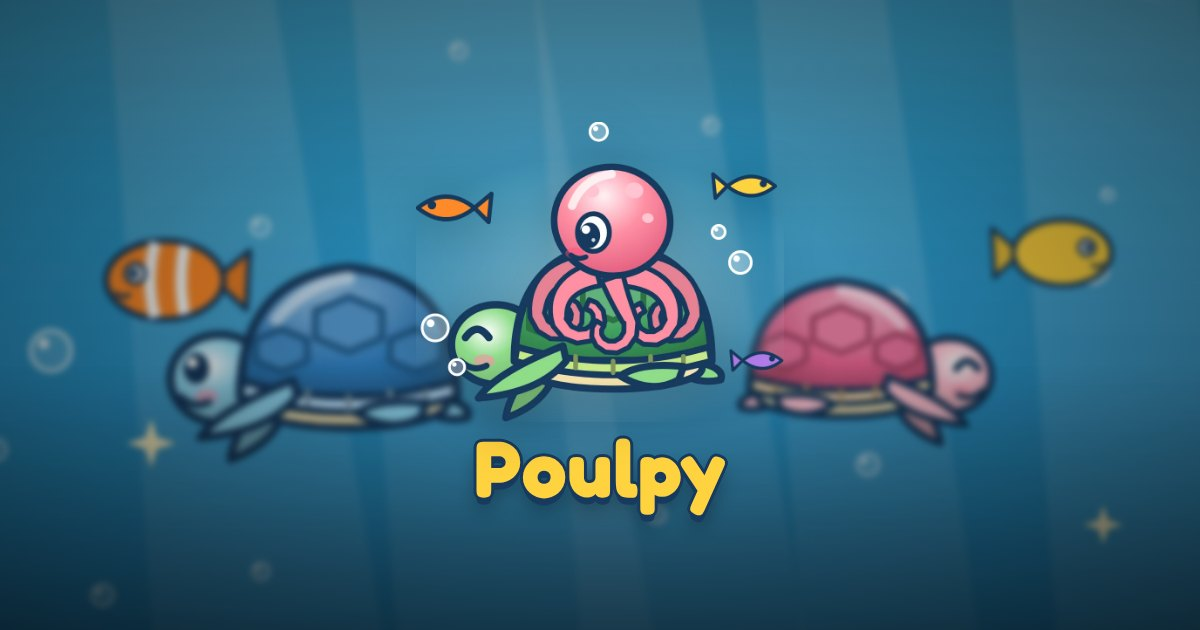
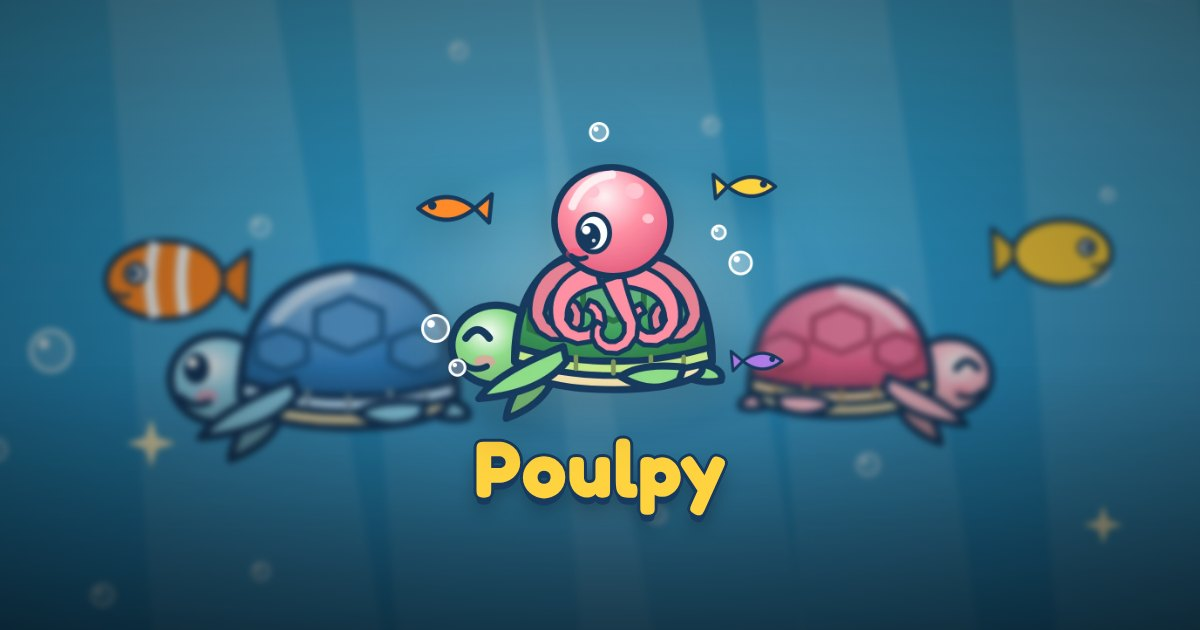
Engine 2026-10-20.1 from the Ludea template; askPlayerName:false (the player is Poulpy); v8
- engine: meta.askPlayerName (game-engine#20), share-preview soft-glow trim fix (#17),
  public-url README check, skills report engine problems directly (#18)
- config: askPlayerName:false, namePromptYou dropped; i18n pruned
- share card redrawn

Claude-Session: https://claude.ai/code/session_01STPeZHr3uJ1UcE93bZB11C

diff --git a/index.html b/index.html
@@ -11,12 +11,12 @@
   <meta name="apple-mobile-web-app-status-bar-style" content="black-translucent" />
   <meta name="apple-mobile-web-app-title" content="Poulpy" />
   <title>Poulpy</title>
-  <link rel="manifest" href="manifest.webmanifest?v=v7" />
-  <link rel="icon" type="image/png" href="assets/favicon.png?v=v7" />
-  <link rel="apple-touch-icon" href="assets/apple-touch-icon.png?v=v7" />
+  <link rel="manifest" href="manifest.webmanifest?v=v8" />
+  <link rel="icon" type="image/png" href="assets/favicon.png?v=v8" />
+  <link rel="apple-touch-icon" href="assets/apple-touch-icon.png?v=v8" />
   <link rel="preload" href="vendor/fonts/fredoka-latin.woff2" as="font" type="font/woff2" crossorigin />
-  <link rel="stylesheet" href="engine.css?v=v7" />
-  <link rel="stylesheet" href="style.css?v=v7" />
+  <link rel="stylesheet" href="engine.css?v=v8" />
+  <link rel="stylesheet" href="style.css?v=v8" />
   <!-- ludea:share (generated by share-preview.cjs — do not edit by hand) -->
   <meta name="description" content="Le petit poulpe de la cité sous la mer !" />
   <meta property="og:type" content="website" />
@@ -24,7 +24,7 @@
   <meta property="og:title" content="Ludea – Poulpy" />
   <meta property="og:description" content="Le petit poulpe de la cité sous la mer !" />
   <meta property="og:url" content="https://jlrigau.github.io/poulpy/" />
-  <meta property="og:image" content="https://jlrigau.github.io/poulpy/assets/share.jpg?v=dacdafec29" />
+  <meta property="og:image" content="https://jlrigau.github.io/poulpy/assets/share.jpg?v=46a3fb9560" />
   <meta property="og:image:width" content="1200" />
   <meta property="og:image:height" content="630" />
   <meta property="og:image:alt" content="Poulpy" />
@@ -33,7 +33,7 @@
   <meta name="twitter:card" content="summary_large_image" />
   <meta name="twitter:title" content="Ludea – Poulpy" />
   <meta name="twitter:description" content="Le petit poulpe de la cité sous la mer !" />
-  <meta name="twitter:image" content="https://jlrigau.github.io/poulpy/assets/share.jpg?v=dacdafec29" />
+  <meta name="twitter:image" content="https://jlrigau.github.io/poulpy/assets/share.jpg?v=46a3fb9560" />
   <!-- /ludea:share -->
 </head>
 <body>
@@ -121,9 +121,9 @@
   <!-- Night veil ("rest" transition), fullscreen -->
   <div id="night-veil"></div>
 
-  <script src="vendor/phaser.min.js?v=v7"></script>
-  <script src="game.config.js?v=v7"></script>
-  <script src="game.i18n.js?v=v7"></script>
-  <script src="engine.js?v=v7"></script>
+  <script src="vendor/phaser.min.js?v=v8"></script>
+  <script src="game.config.js?v=v8"></script>
+  <script src="game.i18n.js?v=v8"></script>
+  <script src="engine.js?v=v8"></script>
 </body>
 </html>

diff --git a/engine.js b/engine.js
@@ -329,6 +329,7 @@ function variantId(c) {
 }
 function variantDef(id) { return VARIANTS.find((v) => v.id === id) || VARIANTS[0]; }
 function charDef(id) { return CHARACTERS.find((p) => p.id === id) || CHARACTERS[0]; }
+const ASK_NAME = META.askPlayerName !== false; // false: the player's name is the chosen character's name
 
 /* ===================== Creatures ===================== */
 
@@ -717,6 +718,7 @@ function continueGame() {
   state = s;
   if (!state.player) state.player = { avatar: CHARACTERS[0].id };
   if (!charDef(state.player.avatar) || !CHARACTERS.some((p) => p.id === state.player.avatar)) state.player.avatar = CHARACTERS[0].id;
+  if (!ASK_NAME) state.player.name = charDef(state.player.avatar).name; // a name typed before the option was set is not kept
   if (!state.resources) state.resources = Object.assign({}, ECON.startResources || {});
   if (!state.decors) state.decors = [];
   state.decors = state.decors.filter((d) => d && DECOR.some((x) => x.id === d.id) && typeof d.x === "number");
@@ -936,9 +938,10 @@ function openCreate(player, onValidate) {
     b.innerHTML = iconHTML("arrow"); b.classList.toggle("hidden", !many);
     b.onclick = () => step(i ? 1 : -1);
   });
-  cont.innerHTML = `<div class="avatar-row" id="grp-avatar"></div>
+  // meta.askPlayerName:false — the player IS a named hero: no name field, the hero keeps its own name.
+  cont.innerHTML = `<div class="avatar-row" id="grp-avatar"></div>` + (!ASK_NAME ? "" : `
     <label class="field-label" for="create-name">${esc(META.namePromptYou || L("Your name"))}</label>
-    <input id="create-name" type="text" maxlength="14" placeholder="${esc(META.namePromptYou || L("Your name"))}" value="${esc(pendingPlayer.name || "")}" />`;
+    <input id="create-name" type="text" maxlength="14" placeholder="${esc(META.namePromptYou || L("Your name"))}" value="${esc(pendingPlayer.name || "")}" />`);
   const ga = $("grp-avatar");
   if (!many) ga.classList.add("hidden");
   CHARACTERS.forEach((p) => {
@@ -950,8 +953,8 @@ function openCreate(player, onValidate) {
   });
   draw();
   $("btn-create-ok").onclick = () => {
-    const n = $("create-name").value.trim();
-    pendingPlayer.name = n || pendingPlayer.name || charDef(pendingPlayer.avatar).name;
+    const n = ASK_NAME ? $("create-name").value.trim() : "";
+    pendingPlayer.name = ASK_NAME ? (n || pendingPlayer.name || charDef(pendingPlayer.avatar).name) : charDef(pendingPlayer.avatar).name;
     onValidate();
     if (state) { $("screen-create").classList.add("hidden"); $("screen-game").classList.remove("hidden"); themeColor(TINT_PLAY); buildHud(); refreshHud(); }
   };

diff --git a/game.config.js b/game.config.js
@@ -28,14 +28,14 @@ window.GAME = {
     saveKey: "poulpy",
     audience: { minAge: 6, maxAge: 8, notes: "young kids 6–8: gentle, cute, no violence, almost no reading needed" },
     author: { name: "Jean-Louis Rigau", github: "jlrigau" },
-    assetVersion: "v7",
+    assetVersion: "v8",
     theme: { home: "#0e4c86", play: "#1670a8", closeup: "#0e4c86" },
     showCoins: true,
     coinIcon: "pearl",
     showCreatureCount: false,
     namePrompt: { label: "Le nom de ta cité :", placeholder: "Bulle-Ville" },
     startName: "Ma cité",
-    namePromptYou: "Ton prénom",
+    askPlayerName: false, // the player IS Poulpy: no "Ton prénom" field, the hero keeps its name
     avatarPrompt: "Voici Poulpy !",
     createTitle: "Voici Poulpy !",
     createOkLabel: "On plonge !",

diff --git a/game.i18n.js b/game.i18n.js
@@ -8,7 +8,6 @@ window.GAME_I18N.en = {
   "Le nom de ta cité :": "Name your city:",
   "Bulle-Ville": "Bubbletown",
   "Ma cité": "My city",
-  "Ton prénom": "Your name",
   "Voici Poulpy !": "Meet Poulpy!",
   "On plonge !": "Let's dive!",
   "Nouvelle partie": "New game",

diff --git a/.claude/skills/report-upstream/SKILL.md b/.claude/skills/report-upstream/SKILL.md
@@ -1,6 +1,6 @@
 ---
 name: report-upstream
-description: Report back to the Ludea engine, AUTOMATICALLY and without asking the creator anything technical, what this game's work taught — bugs hit in the engine / skills / tooling / docs / template, and engine improvements ALREADY implemented in this game (the engine-layer drift, with its patch). Creates de-duplicated issues on ludea-ai/game-engine (or gives a one-click prefilled link when this session can't write there). Run by capitalize-learnings after every feature/bugfix, at the end of new-game, and before any sync-engine that would overwrite local engine changes. Triggers: "report this to the engine", "send the improvements back to Ludea", "tell the engine team", after capitalize-learnings.
+description: Report back to the Ludea engine, AUTOMATICALLY and without asking the creator anything technical, what this game's work taught — bugs hit in the engine / skills / tooling / docs / template, and engine improvements ALREADY implemented in this game (the engine-layer drift, with its patch). Creates de-duplicated issues on ludea-ai/game-engine (or gives a one-click prefilled link when this session can't write there). Run by capitalize-learnings after every feature/bugfix, at the end of new-game, before any sync-engine that would overwrite local engine changes, and by update / release-deploy / visual-review / test-debug as soon as they notice an engine-layer defect. Triggers: "report this to the engine", "send the improvements back to Ludea", "tell the engine team", after capitalize-learnings.
 ---
 
 # report-upstream (game → Ludea engine, automatic)
@@ -82,13 +82,16 @@ _Generated by [Claude Code](https://claude.ai/code)_
 creator's private messages verbatim, whole transcripts. Describe, don't paste.
 
 ## 4. Send it (first route that works)
-**Expect no access**: a session opened on a creator's game usually has GitHub access to that repo
-only — the MCP tools answer "repository not configured for this session" for `ludea-ai/*` and `gh`
-is often not logged in. That's normal. Before the de-duplication step (it needs the same access),
-ask the creator ONE plain question, in their language, and say it will be public:
+**Try direct access first** (game-engine#18): when the `add_repo` tool exists, call it for
+`ludea-ai/game-engine` (access `push` — issues only need any GitHub account) BEFORE asking anything,
+then ToolSearch "github issue" and use route 1. It usually works on the first try; never stop at a
+link while it does. Only when `add_repo` is missing or refused, read the game's CLAUDE.md §10 for a
+line `Upstream reports: direct` or `Upstream reports: link` (the creator's earlier answer) and follow
+it; with no such line, ask ONE plain question, in the creator's language, saying it will be public:
 « Je peux envoyer ça à Ludea moi-même (il me faut l'accès au dépôt Ludea) ou te donner un lien
-déjà rempli. Que préfères-tu ? » — *myself* → `add_repo` `ludea-ai/game-engine` (when the tool
-exists) then route 1; *link* → route 3 (de-duplicate by reading the public issues list).
+déjà rempli. Que préfères-tu ? » — then write their answer in CLAUDE.md §10 (`Upstream reports:
+direct` / `link`) so it is asked at most once per game. *Direct* → route 1 or 2; *link* → route 3
+(de-duplicate by reading the public issues list).
 Repos of the Ludea organisation (nebula, game-engine, Ludea's games) have access: no question.
 1. **GitHub MCP** `issue_write` (method create) on `ludea-ai/game-engine` (if the tool is not
    loaded, ToolSearch "github issue"). Public repos accept issues from any GitHub account.
@@ -117,5 +120,7 @@ Keep the local change: the game keeps working; the next engine sync brings it ba
   game's own repo is normal.
 
 ## Chaining
-**capitalize-learnings** → **report-upstream** → release-deploy. **sync-engine** refuses to
+**capitalize-learnings** → **report-upstream** → release-deploy. Also run directly by **update**,
+**release-deploy**, **visual-review** and **test-debug** as soon as they notice a defect in the engine
+layer or its tooling, even when their own task succeeded (game-engine#18). **sync-engine** refuses to
 overwrite unreported drift (run this first). Ideas from the creator go through **/idea**.

diff --git a/.claude/skills/update/SKILL.md b/.claude/skills/update/SKILL.md
@@ -42,14 +42,23 @@ Red → don't publish: fix if it is the game's config; if it is the engine, undo
 (`git checkout -- . && git clean -fd .claude`), **report-upstream** it as a bug, tell the creator
 plainly that the update waits for a fix.
 
-## 4. Put it online and tell
+## 4. Report what looked wrong in the engine
+**Engine problems noticed along the way are reported now** (game-engine#18): anything wrong in the
+engine layer or its tooling that you noticed during this task — a tool output that looks wrong, a
+file the sync left behind, a missing browser, a doc that misled you — goes to **report-upstream**
+before you tell the creator, even when the task itself succeeded. Never leave it at a mention or a
+link for the creator to click. (In `ludea-ai/*` you ARE upstream: fix it there instead.)
+Also make the README's « Play » link lead to where the game is served (a moved game kept a dead
+link, game-engine#19): `node .claude/skills/_shared/public-url.cjs --readme --fix`.
+
+## 5. Put it online and tell
 `node .claude/skills/_shared/bump-version.mjs`, commit (`Engine <version> from the Ludea template`),
 push, check the deploy is green (release-deploy). Then, in their language, 2–3 lines: what is new
 for their game, what was checked, what was NOT (real phone, sound), and the build number to look
 for at the bottom of the home screen. If the game is in the Ludea catalogue, a new
 **/publish** sends the updated version for review.
 
-## 5. Suggest what the game could now do (never switch it on alone)
+## 6. Suggest what the game could now do (never switch it on alone)
 Read the `### New — you can switch it on` lines of every version between the old and the new
 engine (`update-check.cjs --json` → `news`, or `_shared/CHANGELOG.md`). Keep the 1–3 that fit THIS
 game (look at its config: missions? a chase? riding? young players?) and offer them as ideas, in

diff --git a/.claude/skills/release-deploy/SKILL.md b/.claude/skills/release-deploy/SKILL.md
@@ -28,7 +28,12 @@ Cleanly publish a change to production.
    ```bash
    node .claude/skills/_shared/share-preview.cjs        # writes assets/share.jpg + the tags in index.html
    ```
-   Look at `assets/share.jpg` when it changed (title readable, logo not cut).
+   Look at `assets/share.jpg` when it changed (title readable, logo not cut, no box around it).
+   And the README's « Play » link must lead to where the game is served (a moved game kept a dead
+   link, game-engine#19) — it rewrites a wrong one, no network:
+   ```bash
+   node .claude/skills/_shared/public-url.cjs --readme --fix
+   ```
 3. **Verify** — Bash: `node --check engine.js && node --check game.config.js`, the
    separation audit, `art-check.cjs`, and the regression tour (`probes/tour.cjs`, errors
    must be empty). If art/UI changed, **visual-review** must have been done.
@@ -58,4 +63,9 @@ Cleanly publish a change to production.
   (or Settings → Pages → Source: GitHub Actions) — then re-run the failed run (`gh run rerun <id>`).
 
 ## Chaining
+**Engine problems noticed along the way are reported now** (game-engine#18): anything wrong in the
+engine layer or its tooling that you noticed during this task — a tool output that looks wrong, a
+file the sync left behind, a missing browser, a doc that misled you — goes to **report-upstream**
+before you tell the creator, even when the task itself succeeded. Never leave it at a mention or a
+link for the creator to click. (In `ludea-ai/*` you ARE upstream: fix it there instead.)
 Last step, after **test-debug** (the feature works) and, for a map change, after **map-verify**.

diff --git a/.claude/skills/_shared/CHANGELOG.md b/.claude/skills/_shared/CHANGELOG.md
@@ -8,6 +8,21 @@ their game). Two lists per version:
   **what it lets you do** — `config key` — the kind of game it suits.
 - `### Better — automatic`: fixes and improvements every game gets just by updating.
 
+## 2026-10-20.1
+### New — you can switch it on
+- **The player is a named hero, not themself**: the creation screen no longer asks « Your name »,
+  the hero keeps its own name (and changes with the chosen character) — `meta.askPlayerName: false`
+  — games whose hero is a mascot; in a children's game, no child types their real first name.
+### Better — automatic
+- **The link preview card** no longer shows a faint box around a logo with a soft glow; every
+  game's card is redrawn at its next release.
+- **The « Play » link of your README** is checked and corrected at every update and release, so it
+  always leads to where the game is really online (`public-url.cjs --readme --fix`); /publish warns
+  about a wrong one.
+- **Problems in the engine are sent to Ludea right away**: the update, release, visual and test steps
+  report any engine problem they notice, directly when the session can reach Ludea — no more link to
+  click.
+
 ## 2026-10-19.5
 ### Better — automatic
 - **Safer tools**: the tools that read your game's settings (translations, link preview, systems map,

diff --git a/ENGINE.md b/ENGINE.md
@@ -93,6 +93,10 @@ theme: { home, play, closeup },        // iOS theme-color per screen
 showCoins,                             // false → hide the coins HUD (no economy)
 showDay, showCreatureCount,            // false → hide the day / creature-count HUD chips (minimal HUD)
 showCapacity,                          // creature count: show "n/cap" vs bare "n". Default auto: "/cap" only when group size can change (breeding / spawn station / capacity shop)
+askPlayerName,                         // false → the player IS a named hero: no "Your name" field on the create screen; the
+                                       // player's name = the chosen character's `name` (follows a change of avatar; a name
+                                       // typed in an older save is replaced on load). Default true (asks). The place-name
+                                       // question on the home screen (namePrompt) is unchanged. Kids' games: no child types a first name.
 coinIcon, namePrompt:{label,placeholder}, startName, namePromptYou, avatarPrompt,
 createTitle, createOkLabel, startLabel, continueLabel, continueHint, helpTitle,
 ageUnit, and, nightMessage, restBlockedHint, neglectMessage, morningMessage,

diff --git a/.claude/skills/new-game/SKILL.md b/.claude/skills/new-game/SKILL.md
@@ -70,7 +70,10 @@ section by section:
 - `meta` (title, icons, logo, save key, theme colours, **audience**, UI strings incl.
   `meta.strings` for engine labels, language)
 - `render` (pixelArt:false, vignette, label pills, ambient particles), `audio` (music mood)
-- `world` + `camera`, `assets` (images/sheets), `player` + `characters`
+- `world` + `camera`, `assets` (images/sheets), `player` + `characters` — when the player IS a named
+  hero (a mascot with its own name, not the child themself), set `meta.askPlayerName: false`: the
+  create screen then doesn't ask « Your name » (no child types a real first name) and the hero keeps
+  its `characters[].name`
 - `creature` (label, needs, actions with effects/costs/rewards, variants, customize,
   ride/jump, celebrate, aging, breeding, names, start state) — omit systems not wanted
 - `zones`, `stations`, `economy` + `shop`, `decor`

diff --git a/CLAUDE.md b/CLAUDE.md
@@ -209,6 +209,7 @@ like a game made by a studio — not a prototype. Concretely:
   **crab thief** chases you (`chase`, slower than Poulpy, `caughtKeepsMission`: it only pinches 5 pearls);
   each big treasure unlocks one of 5 rare items in the "treasure corner" by the house, stat `bigTreasure`), rest in Poulpy's jar (amphora) house, unlocks
   (lamps, giant clam, champion statue), 3 objective levels. Pearls = coins (no shop yet).
+  The player IS Poulpy: `meta.askPlayerName:false` (no « Ton prénom » field — owner request, game-engine#20).
 - Owner choices (first interview): extra activity = **treasure hunt**; race mount = **sea turtle**.
   Treasure modes (2nd interview): big = "le voleur de trésor", on foot or riding, reward = a rare item.
   The hero is an **octopus named Poulpy** (owner correction: a first version misheard it as a chick

diff --git a/.claude/skills/test-debug/SKILL.md b/.claude/skills/test-debug/SKILL.md
@@ -82,6 +82,11 @@ node .claude/skills/_shared/playtest.cjs --engine webkit --device "iPhone 13" --
 - If a functional choice is ambiguous, ask via **AskUserQuestion**.
 
 ## Chaining
+**Engine problems noticed along the way are reported now** (game-engine#18): anything wrong in the
+engine layer or its tooling that you noticed during this task — a tool output that looks wrong, a
+file the sync left behind, a missing browser, a doc that misled you — goes to **report-upstream**
+before you tell the creator, even when the task itself succeeded. Never leave it at a mention or a
+link for the creator to click. (In `ludea-ai/*` you ARE upstream: fix it there instead.)
 Before **map-verify** (map visuals) and **release-deploy** (publish).
 Called by the **feedback-session** orchestrator for each item.
 
